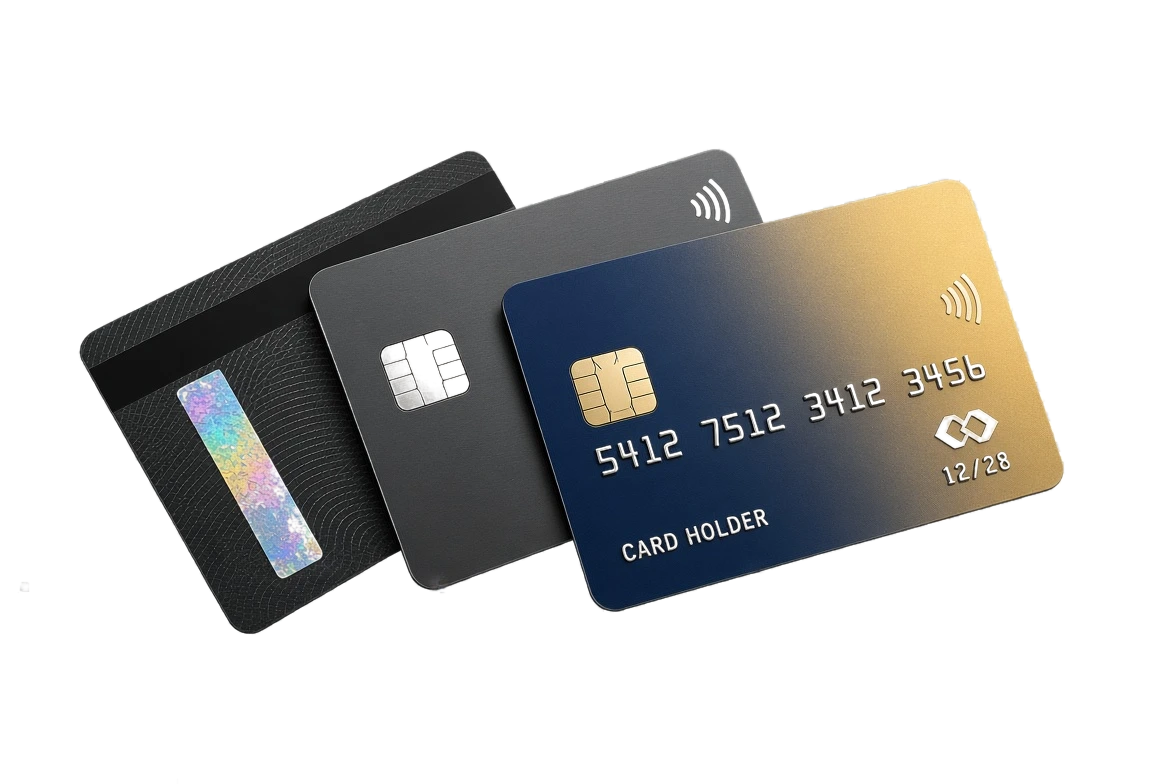
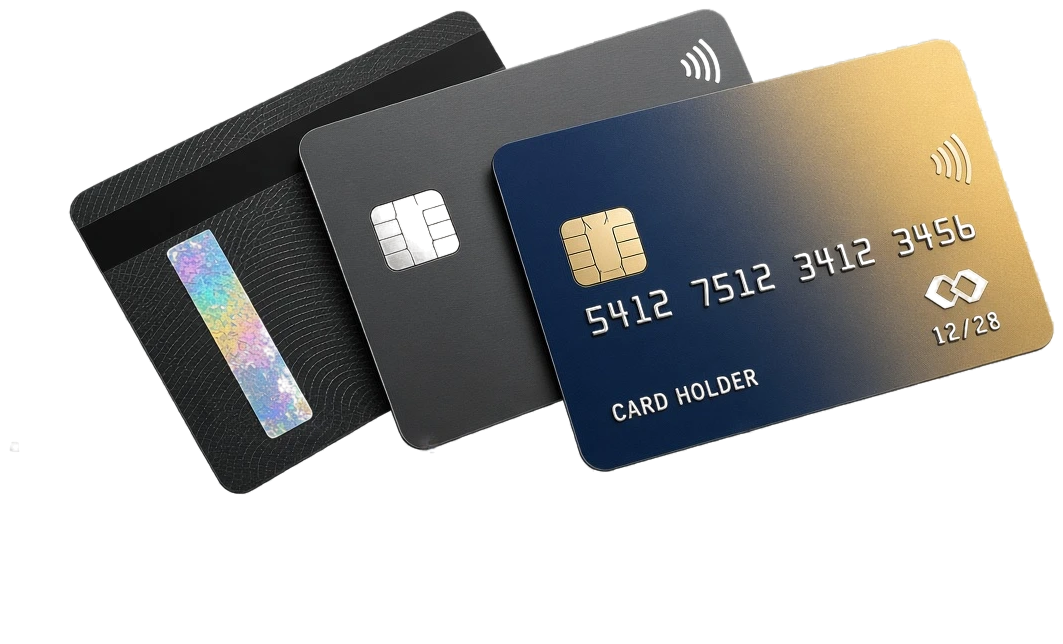
Crop card image, remove drop-shadow, fluid max-width for zoom-out
- Crop PNG to tight content bounds (1063x644, was 1168x784) — removes
  all transparent padding that caused stray drop-shadow artifacts
- Clean 4464 near-transparent edge pixels to alpha=0
- Remove CSS filter:drop-shadow — original render has baked-in shadows
- WebP quality 95 (was 88) for sharper card details in Chrome
- Replace fixed max-width:1200px with clamp(1200px,72vw,1800px) on all
  containers — content scales up at zoom-out / ultra-wide, looks fuller
- Remove the separate @media(min-width:1600/2000px) queries (now fluid)
- Scale hero card image to clamp(340px,34vw,680px) for wider range

Claude-Session: https://claude.ai/code/session_01P18SSH4nJnWtdeUppcqYZm

diff --git a/index.html b/index.html
@@ -217,7 +217,7 @@ p,li,.hero-body,.form-fail,.fg-err,.footer-col a,.footer-bottom span{text-wrap:p
 .s-white .eyebrow,.s-light .eyebrow{color:var(--brand-txt);}
 /* ── NAV ────────────────────────────────────────────────── */
 .nav{position:fixed;top:0;left:0;right:0;z-index:200;background:var(--nav-bg);backdrop-filter:blur(12px);-webkit-backdrop-filter:blur(12px);border-bottom:1px solid rgba(255,255,255,.07);}
-.nav-inner{display:flex;align-items:center;gap:clamp(.75rem,1.1vw,1.4rem);height:clamp(48px,6.5vw,84px);max-width:1200px;margin:0 auto;padding:0 clamp(1rem,2vw,2rem);}
+.nav-inner{display:flex;align-items:center;gap:clamp(.75rem,1.1vw,1.4rem);height:clamp(48px,6.5vw,84px);max-width:clamp(1200px,72vw,1800px);margin:0 auto;padding:0 clamp(1rem,2vw,2rem);}
 .nav-logo{display:flex;align-items:center;gap:10px;text-decoration:none;flex-shrink:0;}
 .logo-mark{width:clamp(24px,2.8vw,32px);height:clamp(26px,3.1vw,35px);flex-shrink:0;color:#00AEEF;}
 .logo-text{font-family:var(--f-logo);font-weight:var(--logo-wt);font-size:clamp(.95rem,1.35vw,1.15rem);letter-spacing:var(--ls-logo);color:#fff;line-height:1.05;white-space:nowrap;}
@@ -259,8 +259,8 @@ p,li,.hero-body,.form-fail,.fg-err,.footer-col a,.footer-bottom span{text-wrap:p
 .hero{background:var(--hero-bg);padding:clamp(6.5rem,11vw,9.5rem) clamp(1.5rem,4vw,3rem) clamp(4.5rem,8vw,7rem);position:relative;overflow:hidden;}
 .hero::before{content:'';position:absolute;inset:0;background-image:repeating-linear-gradient(45deg,rgba(var(--hero-pattern),.12) 0,rgba(var(--hero-pattern),.12) 1px,transparent 0,transparent 50%);background-size:28px 28px;pointer-events:none;}
 .hero-cards{position:absolute;inset-inline-end:-4%;top:50%;transform:translateY(-50%);pointer-events:none;z-index:0;}
-.hero-card-img{display:block;width:clamp(340px,38vw,560px);height:auto;filter:drop-shadow(0 8px 28px rgba(0,0,0,.45));}
-.hero-inner{max-width:1200px;margin:0 auto;position:relative;z-index:1;}
+.hero-card-img{display:block;width:clamp(340px,34vw,680px);height:auto;}
+.hero-inner{max-width:clamp(1200px,72vw,1800px);margin:0 auto;position:relative;z-index:1;}
 .hero h1{overflow-wrap:break-word;font-size:var(--h1-size);font-weight:800;color:#fff;line-height:.99;margin-bottom:.4rem;max-width:22ch;letter-spacing:var(--h1-ls);}
 :root[lang="el"] .hero h1{max-width:28ch;}   /* fits the phrase on one line */
 .hero h1 em{color:var(--gold);font-style:normal;display:block;}
@@ -277,7 +277,7 @@ p,li,.hero-body,.form-fail,.fg-err,.footer-col a,.footer-bottom span{text-wrap:p
 .btn-ghost:hover{border-color:rgba(255,255,255,.65);color:#fff;background:rgba(255,255,255,.06);}
 /* ── SECTION COMMONS ─────────────────────────────────────── */
 .section{padding:clamp(3.5rem,6vw,5.5rem) clamp(1.5rem,4vw,3rem);}
-.section-inner{max-width:1200px;margin:0 auto;}
+.section-inner{max-width:clamp(1200px,72vw,1800px);margin:0 auto;}
 .section-hdr{margin-bottom:2.75rem;}
 .sh-tight{margin-bottom:1.5rem;}   /* header sits above its own body copy, not a grid */
 .section-hdr h2{font-size:var(--h2-size);font-weight:700;line-height:1.12;margin-top:.45rem;}
@@ -371,7 +371,7 @@ p,li,.hero-body,.form-fail,.fg-err,.footer-col a,.footer-bottom span{text-wrap:p
 .btn-dark:hover{background:var(--navy-mid);transform:translateY(-2px);}
 /* ── FORM ───────────────────────────────────────────────── */
 .form-section{background:var(--navy);padding:clamp(4rem,7vw,6rem) clamp(1.5rem,4vw,3rem);}
-.form-inner{max-width:1200px;margin:0 auto;display:grid;grid-template-columns:minmax(0,1fr) minmax(0,1.65fr);gap:4rem;align-items:start;}
+.form-inner{max-width:clamp(1200px,72vw,1800px);margin:0 auto;display:grid;grid-template-columns:minmax(0,1fr) minmax(0,1.65fr);gap:4rem;align-items:start;}
 .form-inner h2{font-family:var(--f-display);font-size:var(--h2-size);font-weight:700;color:#fff;line-height:1.1;margin-bottom:.9rem;margin-top:.45rem;}
 .form-inner > div > p:not(.eyebrow):not(.form-intro-note){font-size:.875rem;color:rgba(255,255,255,.58);line-height:calc(1.75 * var(--lh-mult));margin-bottom:.9rem;max-width:42ch;}
 .form-intro-note{margin-top:2rem;padding-top:1.5rem;border-top:1px solid rgba(255,255,255,.08);font-size:.72rem;color:rgba(255,255,255,.6);font-style:var(--italic);line-height:calc(1.6 * var(--lh-mult));}
@@ -409,7 +409,7 @@ p,li,.hero-body,.form-fail,.fg-err,.footer-col a,.footer-bottom span{text-wrap:p
 .btn-primary:active,.btn-ghost:active,.btn-nav:active,.btn-dark:active,.btn-submit:active:not(:disabled){transform:scale(.97);}
 /* ── FOOTER ─────────────────────────────────────────────── */
 .footer{background:var(--footer-bg);padding:3rem clamp(1.5rem,4vw,3rem) 1.4rem;color:rgba(255,255,255,.66);}
-.footer-inner{max-width:1200px;margin:0 auto;}
+.footer-inner{max-width:clamp(1200px,72vw,1800px);margin:0 auto;}
 .footer-top{display:grid;grid-template-columns:minmax(0,1.4fr) repeat(3,minmax(0,1fr));gap:2.5rem;padding-bottom:2.25rem;border-bottom:1px solid rgba(255,255,255,.07);margin-bottom:1.4rem;}
 .footer-brand p{font-size:.78rem;color:rgba(255,255,255,.62);margin-top:.65rem;line-height:calc(1.6 * var(--lh-mult));max-width:30ch;}
 .footer-col h4{font-family:var(--f-display);font-size:.76rem;font-weight:700;letter-spacing:var(--ls-ref);text-transform:uppercase;color:rgba(255,255,255,.5);margin-bottom:.9rem;}
@@ -486,16 +486,6 @@ p,li,.hero-body,.form-fail,.fg-err,.footer-col a,.footer-bottom span{text-wrap:p
 @media(max-width:360px){
   .nav-inner{padding:0 1rem;gap:.5rem;}
 }
-/* ── WIDE VIEWPORTS (zoom-out / ultra-wide) ────────────── */
-@media(min-width:1600px){
-  .nav-inner,.hero-inner,.section-inner,.form-inner,.footer-inner{max-width:1400px;}
-  .hero-card-img{width:clamp(500px,32vw,720px);}
-}
-@media(min-width:2000px){
-  .nav-inner,.hero-inner,.section-inner,.form-inner,.footer-inner{max-width:1600px;}
-  .hero-card-img{width:clamp(600px,30vw,840px);}
-  .hero h1{font-size:clamp(3.2rem,4.5vw,5rem);}
-}
 /* ── PRINT ──────────────────────────────────────────────── */
 @media print{
   .nav,.mobile-cta-bar,.mobile-menu,.skip-link,.hero-cards,.lang{display:none!important;}
@@ -565,7 +555,7 @@ p,li,.hero-body,.form-fail,.fg-err,.footer-col a,.footer-bottom span{text-wrap:p
 <section class="hero" id="home">
   <div class="hero-inner">
     <div class="hero-cards" aria-hidden="true">
-      <picture><source srcset="img/cards-composite.webp" type="image/webp"><img class="hero-card-img" src="img/cards-composite.png" alt="" width="1168" height="784" fetchpriority="high"></picture>
+      <picture><source srcset="img/cards-composite.webp" type="image/webp"><img class="hero-card-img" src="img/cards-composite.png" alt="" width="1063" height="644" fetchpriority="high"></picture>
     </div>
     <p class="eyebrow" style="margin-bottom:1.2rem;" data-i18n="hero.eyebrow">Be’eri Printers · card personalization services</p>
     <h1><span data-i18n="hero.h1a">Secure card</span> <em data-i18n="hero.h1b">personalization</em></h1>
